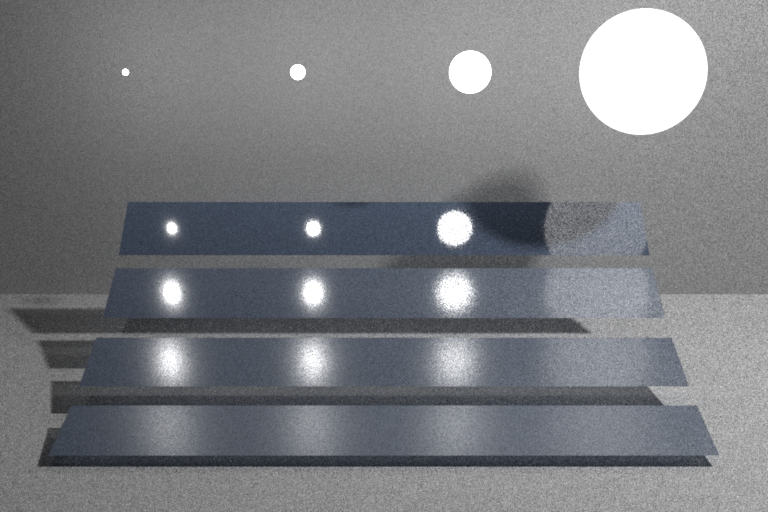
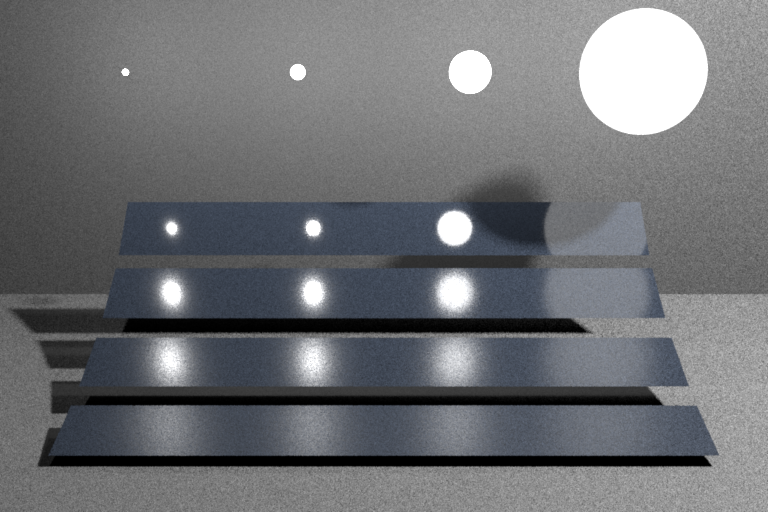
support direct_integrator.

diff --git a/rainbow-renderer/converter/integrator.cpp b/rainbow-renderer/converter/integrator.cpp
@@ -1,7 +1,9 @@
 #include "integrator.hpp"
 
+#include "meta-scene/integrators/direct_integrator.hpp"
 #include "meta-scene/integrators/path_integrator.hpp"
 
+#include "rainbow/integrators/direct_integrator.hpp"
 #include "rainbow/integrators/path_integrator.hpp"
 #include "rainbow/shared/logs/log.hpp"
 
@@ -14,13 +16,24 @@ namespace rainbow::renderer::converter {
 		return std::make_shared<path_integrator>(create_sampler2d(sampler), create_sampler1d(sampler), integrator->depth);
 	}
 
+	std::shared_ptr<integrator> create_direct_integrator(
+		const std::shared_ptr<metascene::integrators::direct_integrator>& integrator,
+		const std::shared_ptr<metascene::samplers::sampler>& sampler)
+	{
+		return std::make_shared<direct_integrator>(create_sampler2d(sampler), create_sampler1d(sampler),
+			integrator->emitter_samples, integrator->bsdf_samples);
+	}
+
 	std::shared_ptr<integrator> converter::create_integrator(
 		const std::shared_ptr<metascene::integrators::integrator>& integrator,
 		const std::shared_ptr<metascene::samplers::sampler>& sampler)
 	{
+		if (integrator->type == metascene::integrators::type::direct)
+			return create_direct_integrator(std::static_pointer_cast<metascene::integrators::direct_integrator>(integrator), sampler);
+
 		if (integrator->type == metascene::integrators::type::path)
 			return create_path_integrator(std::static_pointer_cast<metascene::integrators::path_integrator>(integrator), sampler);
-
+		
 		logs::error("unknown integrator");
 
 		return std::make_shared<path_integrator>(create_sampler2d(sampler), create_sampler1d(sampler), 5);
